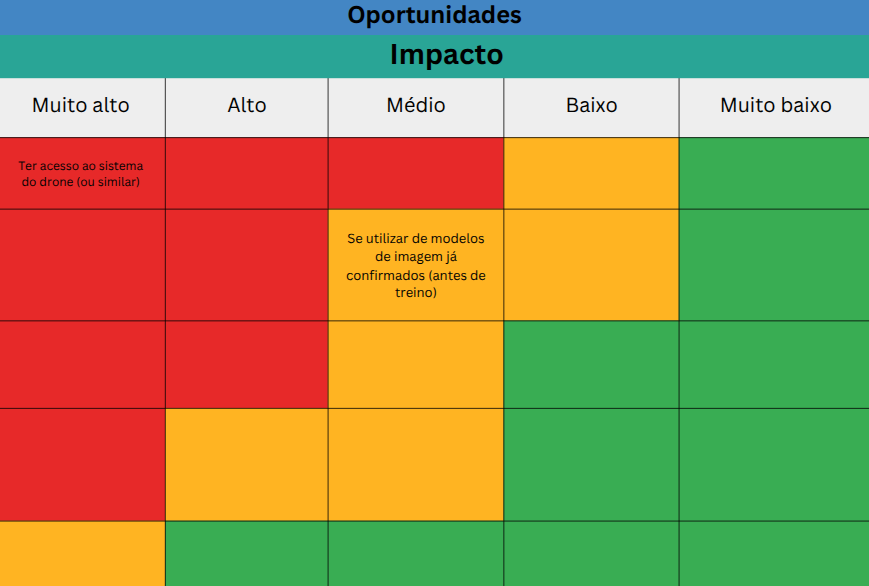
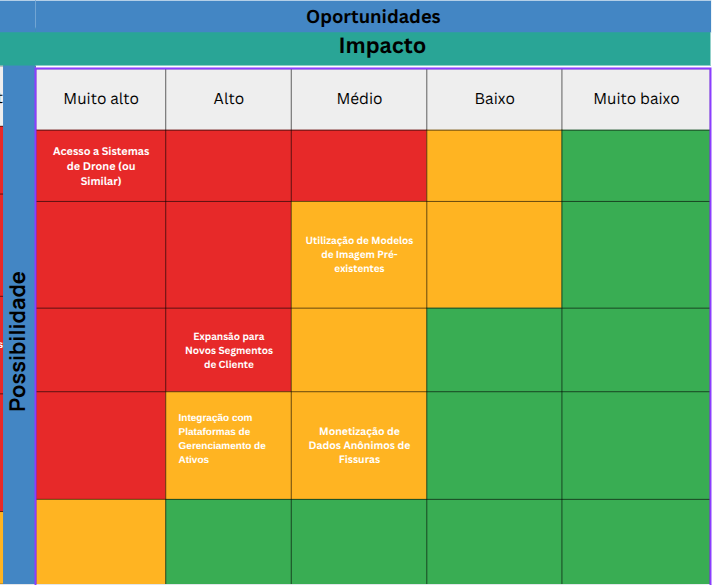
docs: corrige sessão de matriz de risco

Changed region(s): [[0.0, 0.0, 1.0, 1.0]]

diff --git a/docs/docs/Sprint 1/Negocios/MatrizDeRisco.md b/docs/docs/Sprint 1/Negocios/MatrizDeRisco.md
@@ -5,51 +5,163 @@ sidebar_label: Matriz de Risco
 slug: /Sprint-1/Negocios/matriz-de-risco
 ---
 # Matriz de Risco e Oportunidade
-&emsp;A Matriz de Risco é uma ferramenta utilizada para identificar e avaliar os riscos associados a um projeto. Ela ajuda a priorizar os riscos com base em sua probabilidade de ocorrência e impacto no projeto. Riscos na área verde podem ser considerados de baixa prioridade, seja por terem baixa probabilidade de ocorrência ou por terem um impacto baixo no projeto. Já os riscos na área vermelha são considerados de alta prioridade, pois têm alta probabilidade de ocorrência e/ou alto impacto no projeto. Os riscos na área amarela são considerados de prioridade média.
-&emsp;De forma semelhante, a Matriz de Oportunidade é uma ferramenta que ajuda a identificar e avaliar as oportunidades que podem surgir durante o projeto. Ela também ajuda a priorizar as oportunidades com base em sua probabilidade de ocorrência e impacto no projeto. As oportunidades na área vermelha são mais interessantes para o projeto, 
-<br />
-![Matriz de Risco](/img/matrizRisco14bis.png)
 
-# Riscos
+&emsp;A Matriz de Risco é uma ferramenta utilizada para identificar e avaliar os riscos associados a um projeto. Ela ajuda a priorizar os riscos com base em sua probabilidade de ocorrência e impacto no projeto. Riscos na área verde podem ser considerados de baixa prioridade, seja por terem baixa probabilidade de ocorrência ou por terem um impacto baixo no projeto. Já os riscos na área vermelha são considerados de alta prioridade, pois têm alta probabilidade de ocorrência e/ou alto impacto no projeto. Os riscos na área amarela são considerados de prioridade média.
+
+&emsp;De forma semelhante, a Matriz de Oportunidade é uma ferramenta que ajuda a identificar e avaliar as oportunidades que podem surgir durante o projeto. Ela também ajuda a priorizar as oportunidades com base em sua probabilidade de ocorrência e impacto no projeto. As oportunidades na área vermelha são mais interessantes para o projeto, 
+
+&emsp;Neste projeto, utilizamos esta matriz para classificar os riscos com base em sua probabilidade de ocorrência e impacto potencial:
+* **Área Verde (Baixa Prioridade):** Baixa probabilidade e/ou baixo impacto.
+* **Área Amarela (Prioridade Média):** Média probabilidade e/ou impacto.
+* **Área Vermelha (Alta Prioridade):** Alta probabilidade e/ou alto impacto.
+
+&emsp;De forma análoga, para as oportunidades, aquelas que caem na **área vermelha** são consideradas as mais estratégicas e com maior potencial de benefício para o projeto, devido à sua alta probabilidade e impacto.
+
+<br />
+
+![Matriz de Risco e Oportunidade](/img/matrizRisco14bis.png)
+*(Representação visual conceitual da Matriz de Risco e Oportunidade)*
+
+---
+
+
+## 1. Riscos do Projeto
+
+A seguir, detalhamos os riscos identificados, sua avaliação e as estratégias de mitigação.
+
+**Legenda de Avaliação (Riscos):**
+* **Probabilidade:** Muito Baixa (MB), Baixa (B), Média (M), Alta (A), Muito Alta (MA).
+* **Impacto:** Muito Baixo (MB), Baixo (B), Médio (M), Alto (A), Muito Alto (MA).
+
+<br />
 
 ![Matriz de Risco](/img/matRis.png)
 
-### Treinamento de Modelos levar um tempo exagerado
+*(Representação visual conceitual da Matriz de Risco)*
 
-&emsp;Um dos riscos associados com a produção de um modelo de visão computacional é o tempo de treinamento. É preciso ter um balanço entre a qualidade requerida do sistema e o treino do modelo, de modo a não comprometer o tempo de entrega do projeto e a acurácia. O principal problema é que, na maioria dos casos, o tempo de treino é diretamente proporcional à quantidade de imagens de referência, o que eleva o tempo de treino.
+---
+**R1: Tempo de Treinamento de Modelos Excessivo**
+* **Categoria:** Técnica / Cronograma
+* **Probabilidade:** Alta
+* **Impacto:** Alto
+* **Estratégias de Mitigação:**
+    * **Otimização de Recursos:** Alocar recursos computacionais adequados para o treinamento.
+    * **Estratégia de Treino Iterativa:** Começar com uma quantidade reduzida de imagens e gradualmente aumentá-la para alcançar um modelo funcional.
+    * **Monitoramento Ativo:** Monitorar de perto o tempo de treinamento (ex: se exceder 16h) para rever a estratégia antes que o atraso comprometa a entrega do projeto.
+    * **Avaliação de Modelos Pré-treinados:** Explorar o uso de modelos pré-treinados para acelerar o processo inicial de desenvolvimento.
+
+---
+**R2: Dificuldade na Integração Rust-Python**
+* **Categoria:** Técnica
+* **Probabilidade:** Média
+* **Impacto:** Muito Alto
+* **Estratégias de Mitigação:**
+    * **Interface de Comunicação Bem Definida:** Projetar e documentar APIs (Application Programming Interfaces) claras e estáveis para a comunicação entre os módulos Rust e Python.
+    * **Gerenciamento de Ambientes:** Utilizar ambientes virtuais Python ou contêineres (e.g., Docker) para isolar as dependências e garantir a portabilidade do ambiente de execução do modelo Python.
+    * **Testes de Integração Automatizados:** Desenvolver e executar testes automatizados para validar a comunicação e o fluxo de dados entre as duas linguagens.
+    * **Abordagem de Comunicação Clara:** Decidir e documentar explicitamente como a comunicação será realizada (e.g., chamadas de processo, servidor local via HTTP, bibliotecas de binding).
+
+---
+**R3: Desempenho Insuficiente no Processamento de Imagens**
+* **Categoria:** Técnica / Operacional
+* **Probabilidade:** Média
+* **Impacto:** Alto
+* **Estratégias de Mitigação:**
+    * **Otimização de Algoritmos:** Realizar profiling e otimização dos algoritmos de IA e de processamento de imagem para melhorar a eficiência e reduzir o tempo de execução.
+    * **Benchmarking de Desempenho:** Realizar testes de desempenho da aplicação em diferentes configurações de hardware e com volumes variados de dados para identificar gargalos.
+    * **Processamento em Lotes (Batch Processing):** Implementar a capacidade de processar múltiplas imagens em lote para otimizar o uso de recursos e o tempo total de análise.
+    * **Análise de Requisitos:** Validar com o LMPC o "tempo razoável" esperado para o processamento e ajustar as otimizações a esse limite.
+
+---
+**R4: Falhas no Armazenamento Local e Integridade dos Dados**
+* **Categoria:** Operacional / Técnica
+* **Probabilidade:** Baixa
+* **Impacto:** Médio
+* **Estratégias de Mitigação:**
+    * **Mecanismos de Backup:** Implementar rotinas de backup local automáticas ou opções claras para o usuário realizar backups de seus projetos e dados.
+    * **Validação de Integridade:** Incluir verificações de integridade dos arquivos (e.g., checksums) no momento do armazenamento e da recuperação para detectar corrupção de dados.
+    * **Mensagens de Erro Claras:** Fornecer feedback explícito e compreensível ao usuário em caso de falha no armazenamento, com orientações sobre como proceder.
+    * **Uso de Bibliotecas Robustas:** Utilizar bibliotecas padrão e bem testadas para manipulação de arquivos e gerenciamento de caminhos.
+
+---
+**R5: Dependência de Ferramenta Externa (Pandoc) para Exportação**
+* **Categoria:** Técnica / Operacional
+* **Probabilidade:** Média
+* **Impacto:** Médio
+* **Estratégias de Mitigação:**
+    * **Instruções de Instalação Claras:** Fornecer um guia detalhado e simples para a instalação do Pandoc como um pré-requisito da aplicação.
+    * **Empacotamento Simplificado:** Se as licenças permitirem e a ferramenta de empacotamento do Dioxus/Rust suportar, explorar a possibilidade de incluir o Pandoc no pacote de instalação da aplicação para facilitar a implantação.
+    * **Avaliação de Alternativas Nativas:** No longo prazo, avaliar a viabilidade de desenvolver funcionalidades de exportação diretamente em Rust para reduzir ou eliminar a dependência de ferramentas externas.
+
+---
+
+## 2. Oportunidades do Projeto
+
+A seguir, apresentamos as oportunidades identificadas, sua avaliação e como o projeto pode capitalizá-las.
+
+**Legenda de Avaliação (Oportunidades):**
+* **Probabilidade:** Muito Baixa (MB), Baixa (B), Média (M), Alta (A), Muito Alta (MA).
+* **Impacto:** Muito Baixo (MB), Baixo (B), Médio (M), Alto (A), Muito Alto (MA).
+
 <br />
-&emsp;**Para Mitigar:** Começar com uma quantidade reduzida de imagens e gradativamente aumenta-la, de modo a conseguir um modelo funcional. Caso o treinamento do modelo leve um tempo exagerado (mais de 16h), é necessário rever a estratégia de treino antes desse atraso se tornar um problema.
-
-### Comunicação do Drone ser incompatível com ROS2
-
-&emsp;Uma das ideias do projeto é fazer o controle do drone por ROS2, mas há o risco da comunicação do drone utilizado pelo parceiro não ser compatível com o nosso sistema. Isso pode afetar o desenvolvimento do projeto e até a geração de ideias para a solução, mas tem uma baixa probabilidade de interferir em algum aspecto do desenvolvimento.
-<br />
-&emsp;**Para Mitigar:** Conversar com o IPT para entender como funciona a comunicação do drone e se há alguma possibilidade de integração com o ROS2 e/ou outro sistema de controle, ou se realmente será necessário essa comunicação direta.
-
-### Não ter certeza sobre como funciona o sistema do IPT
-
-&emsp;O IPT é um dos parceiros do projeto e, por isso, é importante entender como funciona o sistema deles. Durante a primeira sprint, houve vários momentos de dúvida e confusão sobre como poderíamos integrar o drone com o nosso modelo, como faríamos a comunicação, entre outros pontos. Embora tenha uma probabilidade média por ser esperado que esse risco caia com a próxima conversa, do referencial atual é importante ter esse risco em mente, pois pode afetar a solução final drasticamente.
-<br />
-&emsp;**Para Mitigar:** Conversar com o IPT para entender como funciona o sistema de seus drones e como podemos continuar o projeto com base no feedback.
-
-### Imagens de treino não resultarem em modelo funcional
-
-&emsp;Similar ao primeiro risco, o treino do modelo pode não ser confiável para o uso. Isso pode ocorrer por diversos fatores, como a discussão realizada sobre o tempo de treino, a qualidade das imagens, quantidade, entre outros. Esse risco tem uma probabilidade relativamente baixa, e é esperado que o modelo tenha uma acurácia razoável, mas é importante considerar esse risco, pois afeta diretamente a qualidade do solução.
-<br />
-&emsp;**Para Mitigar:** Fazer um teste inicial com um número reduzido de imagens, e aumentar gradativamente a quantidade de imagens, de modo a conseguir um modelo funcional. Caso o modelo não funcione, rever a estratégia de treino, as imagens utilizadas e o modelo base.
-
-# Oportunidades
 
 ![Matriz de Oportunidade](/img/matOp.png)
 
-### Ter acesso ao sistema do drone (ou similar)
+*(Representação visual conceitual da Matriz de Oportunidade)*
 
-&emsp;Admitidamente, é improvável que teríamos acesso ao mesmo drone que é usado pelo IPT, principalmente devido aos riscos associados à seu custo. Apesar disso, o uso de sistemas similares ajuda a compreender como funciona o sistema e a desenvolver o nosso modelo. Está registrado como alta probabilidade por termos acesso a um drone que, até onde chegaram as informações, tem um sistema de controle similar. O impacto dessa oportunidade é extremamente alto, já que permite já adaptar o sistema pensando no produto final.
+---
+**O1: Acesso a Sistemas de Drone (ou Similar)**
+* **Categoria:** Técnica / Mercado
+* **Probabilidade:** Alta
+* **Impacto:** Muito Alto
+* **Estratégias de Exploração:**
+    * **Parceria Ativa:** Manter e estreitar a colaboração com o IPT para explorar o acesso a drones ou sistemas de coleta de dados similares, visando a integração direta.
+    * **Estudo de Caso:** Utilizar o acesso a esses sistemas para aprimorar o modelo de negócio, adaptando a aplicação para um cenário de uso real com drones.
+    * **Desenvolvimento Orientado:** Priorizar o desenvolvimento de funcionalidades que suportem a entrada de dados via drone, como o requisito RF-SYS-002, para capitalizar essa oportunidade e diferenciar o produto.
 
-### Se utilizar de modelos de imagem já existentes.
+---
+**O2: Utilização de Modelos de Imagem Pré-existentes**
+* **Categoria:** Técnica / Desenvolvimento
+* **Probabilidade:** Alta
+* **Impacto:** Médio
+* **Estratégias de Exploração:**
+    * **Pesquisa e Avaliação:** Realizar uma pesquisa aprofundada de modelos de visão computacional pré-existentes e frameworks de IA para identificar aqueles que podem ser adaptados e integrados ao projeto.
+    * **Aceleração do Desenvolvimento:** Adotar modelos ou componentes já testados para agilizar o processo de produção da solução, garantindo um funcionamento preciso em menor tempo.
+    * **Redução de Custos:** A utilização de modelos existentes pode reduzir o tempo e o custo de treinamento inicial do modelo.
 
-&emsp;O principal dessa oportunidade é sobre o modelo em sí, e não o treinamento. O uso de modelos de visão computacional já testados facilita e agiliza o processo de produção da solução para conseguir entregar o projeto com um funcionamento preciso. Tem uma probabilidade alta, e impactos médios, resultando em um nível de prioridade médio para a oportunidade.
+---
+**O3: Expansão para Novos Segmentos de Cliente**
+* **Categoria:** Mercado / Estratégica
+* **Probabilidade:** Média
+* **Impacto:** Alto
+* **Estratégias de Exploração:**
+    * **Pesquisa de Mercado:** Realizar pesquisas para identificar outros setores (e.g., inspeção de infraestruturas, agricultura de precisão, segurança) que poderiam se beneficiar da tecnologia de análise de fissuras.
+    * **Customização da Solução:** Desenvolver módulos ou funcionalidades customizáveis que atendam às necessidades específicas desses novos mercados.
+    * **Parcerias Estratégicas:** Buscar parcerias com empresas ou associações atuantes em novos segmentos para facilitar a entrada no mercado.
 
-# Conclusão
+---
+**O4: Monetização de Dados Anônimos de Fissuras**
+* **Categoria:** Negócio / Estratégica
+* **Probabilidade:** Baixa
+* **Impacto:** Médio
+* **Estratégias de Exploração:**
+    * **Política de Privacidade:** Estabelecer uma política de privacidade clara e transparente para a coleta de dados de fissuras (anonimizados e agregados) com o consentimento dos usuários.
+    * **Desenvolvimento de Produtos de Dados:** Criar relatórios de tendências, benchmarks ou modelos de dados agregados que possam ser comercializados para empresas do setor.
+    * **Análise de Mercado de Dados:** Avaliar a demanda e o valor potencial do mercado de dados de inspeção estrutural.
 
-&emsp;Com isso, temos os principais riscos do projeto, como mitigá-los, e as oportunidades. É importante ressaltar que a matriz de risco é uma ferramenta dinâmica, e deve ser atualizada conforme o projeto avança e novos riscos e oportunidades surgem, além de rever o impacto e probabilidade dos riscos e oportunidades já registrados.
+---
+**O5: Integração com Plataformas de Gerenciamento de Ativos**
+* **Categoria:** Técnica / Mercado
+* **Probabilidade:** Baixa
+* **Impacto:** Alto
+* **Estratégias de Exploração:**
+    * **Pesquisa de Mercado:** Identificar as principais plataformas de gerenciamento de ativos ou EAM (Enterprise Asset Management) utilizadas no setor de engenharia.
+    * **Desenvolvimento de APIs/Plugins:** Criar interfaces de programação de aplicação (APIs) ou plugins que permitam a integração fluida dos resultados do 14-Bis com essas plataformas, facilitando o fluxo de trabalho dos clientes.
+    * **Parcerias Tecnológicas:** Buscar parcerias com fornecedores de plataformas de gerenciamento de ativos para desenvolver integrações conjuntas.
+---
+
+## 3. Conclusão
+
+&emsp;A aplicação da Matriz de Risco e Oportunidade demonstra que o projeto 14-Bis, embora promissor, enfrenta desafios significativos, principalmente relacionados à acurácia do modelo de IA e à sua usabilidade. No entanto, as oportunidades de integração com tecnologias emergentes como drones e o uso de modelos pré-existentes representam alavancas importantes para o sucesso.
+
+&emsp;É importante ressaltar que a matriz de risco e oportunidade é uma ferramenta dinâmica, e deve ser atualizada conforme o projeto avança, novos riscos e oportunidades surgem, e o impacto e probabilidade dos itens já registrados são reavaliados. A gestão proativa desses fatores é fundamental para garantir a sustentabilidade e o sucesso do 14-Bis.
